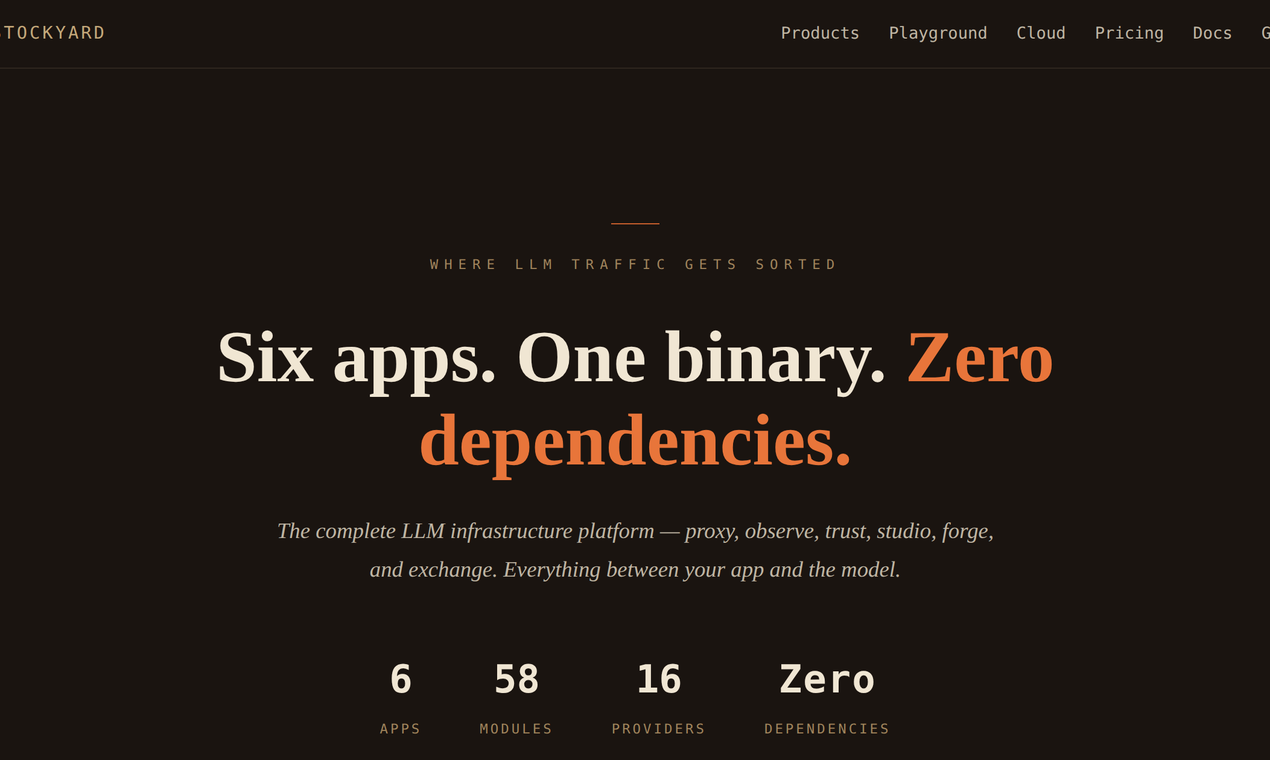
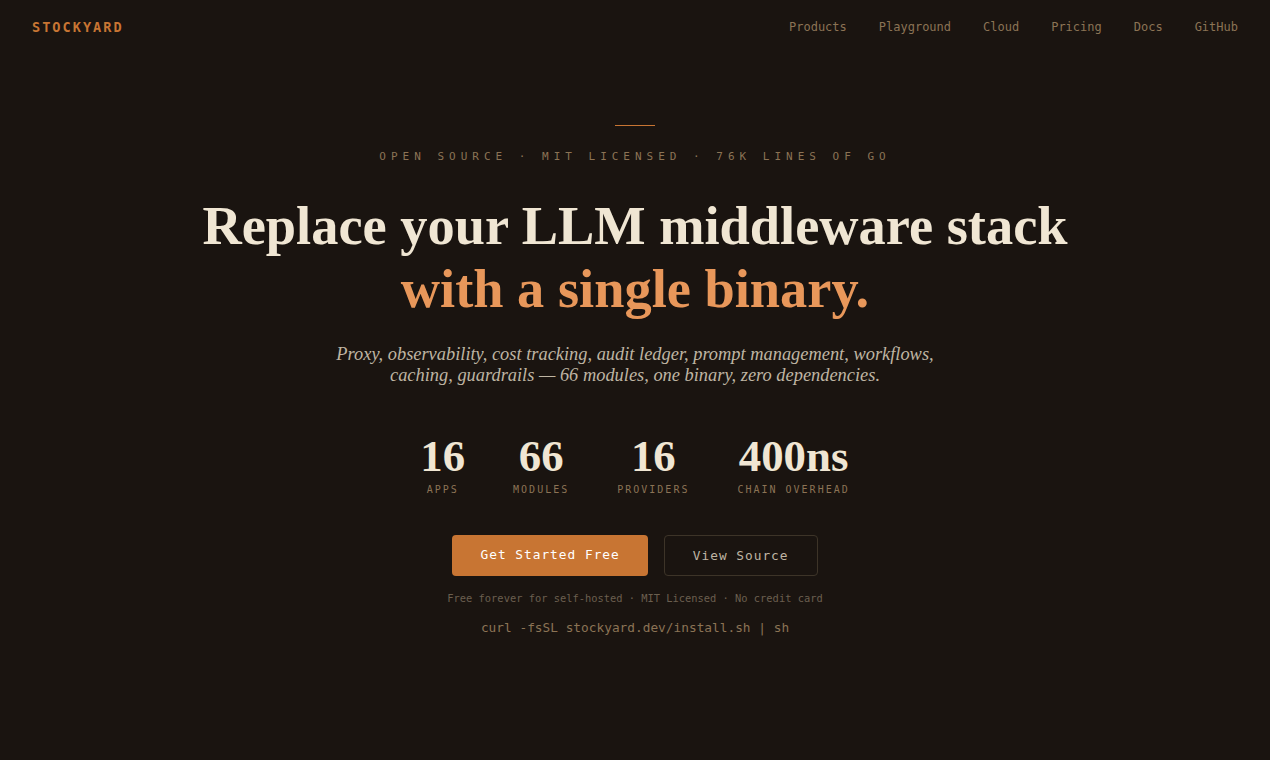
marketing: regenerate PH hero image with correct stats (16 apps, 66 modules)

diff --git a/marketing/take-ph-screenshots.py b/marketing/take-ph-screenshots.py
@@ -1,0 +1,37 @@
+#!/usr/bin/env python3
+"""Take Product Hunt gallery screenshots from the live site."""
+import asyncio
+from playwright.async_api import async_playwright
+
+PAGES = [
+    ("01-hero.png", "https://stockyard.dev", "#main", None),
+    ("02-observe.png", "https://stockyard.dev/products/observe/", ".product-demo", None),
+    ("03-trust.png", "https://stockyard.dev/products/trust/", ".product-demo", None),
+    ("04-studio.png", "https://stockyard.dev/products/studio/", ".product-demo", None),
+    ("05-forge.png", "https://stockyard.dev/products/forge/", ".product-demo", None),
+]
+
+async def main():
+    async with async_playwright() as p:
+        browser = await p.chromium.launch()
+        page = await browser.new_page(viewport={"width": 1270, "height": 760})
+
+        for filename, url, selector, scroll_to in PAGES:
+            print(f"Capturing {filename} from {url}...")
+            await page.goto(url, wait_until="networkidle", timeout=30000)
+            await page.wait_for_timeout(1000)  # let animations settle
+            
+            if scroll_to:
+                await page.evaluate(f"document.querySelector('{scroll_to}').scrollIntoView()")
+                await page.wait_for_timeout(500)
+            
+            await page.screenshot(
+                path=f"marketing/toolkit/cards/product-hunt-gallery/{filename}",
+                clip={"x": 0, "y": 0, "width": 1270, "height": 760}
+            )
+            print(f"  Saved {filename}")
+
+        await browser.close()
+        print("Done!")
+
+asyncio.run(main())
